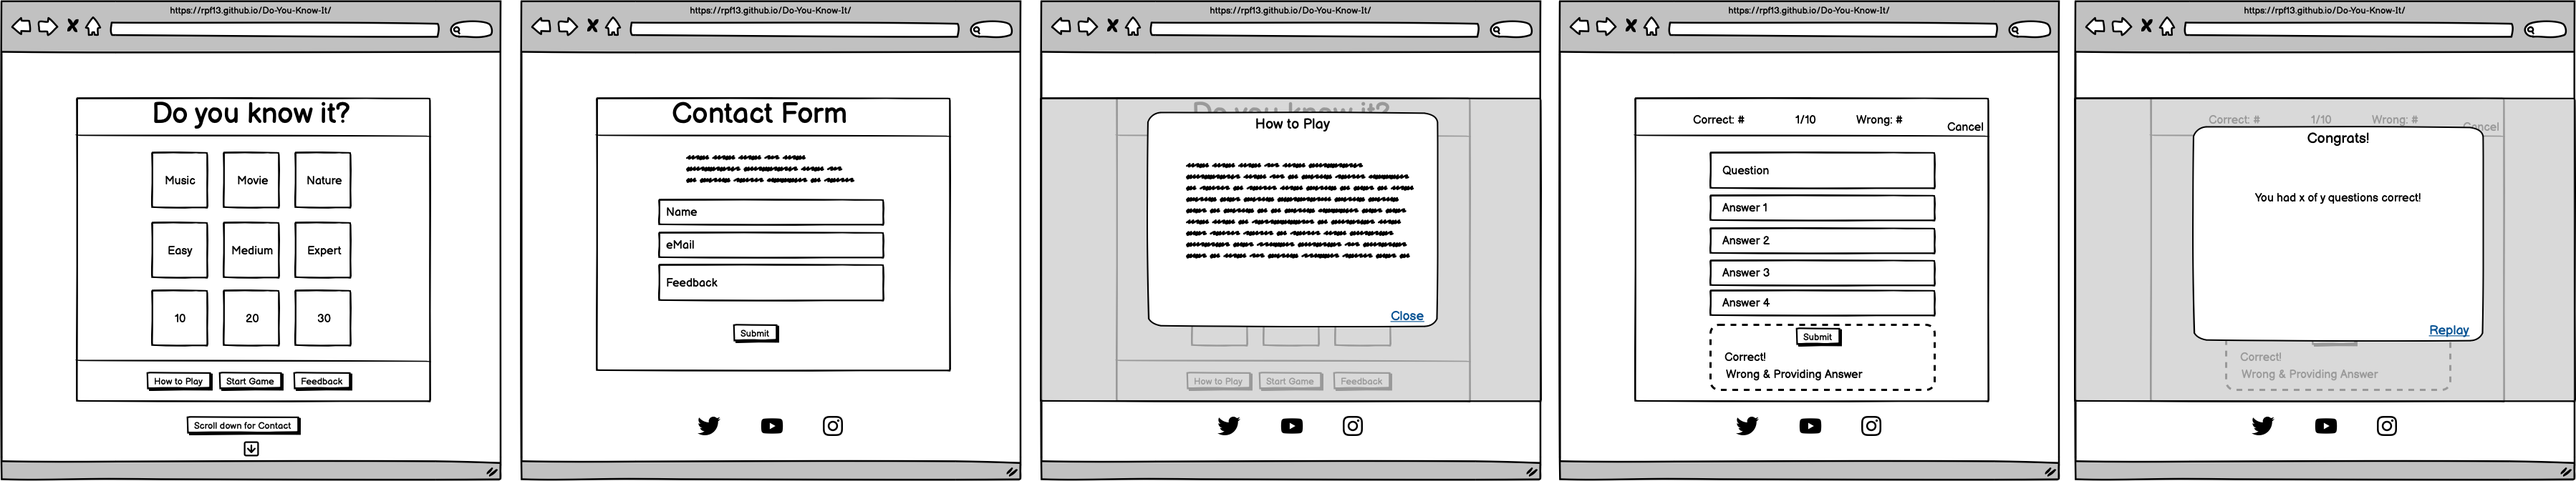
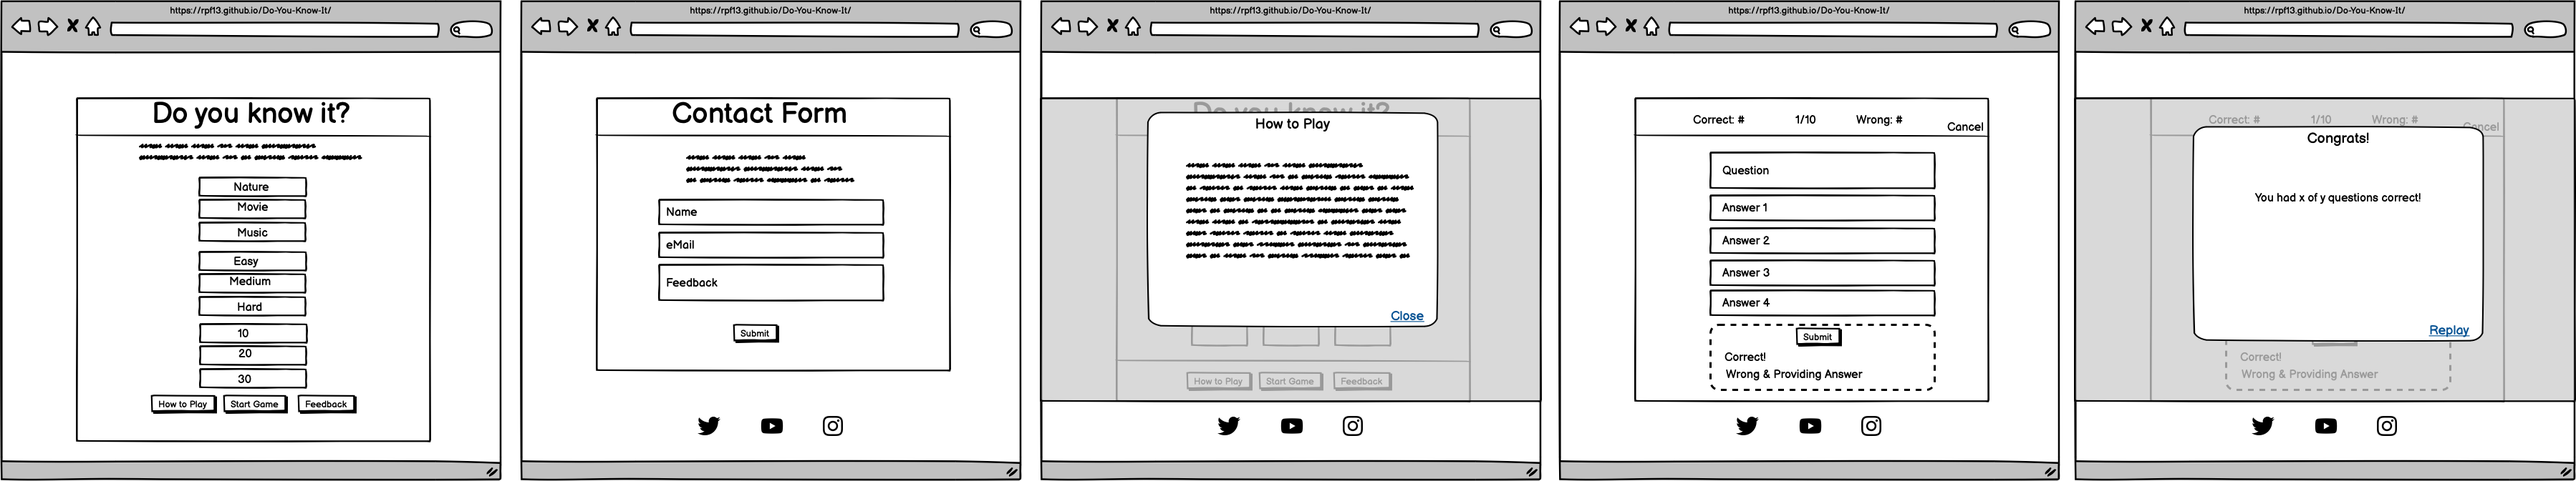
docs: Readme update after layout change

Changed region(s): [[0.0311, 0.2808, 0.1557, 0.9361]]

diff --git a/README.md b/README.md
@@ -63,9 +63,21 @@ This site has been built with the "mobile first" approach in mind. This results 
     explain your colors, etc.... perhaps use coolors.co? to generate an image palette
 
 ### Typography
-I used [Google Fonts](https://fonts.google.com/) to import "Roboto" as my main font, where as "sans-serif" acts as a backup font.
+I used [Google Fonts](https://fonts.google.com/) to import "Roboto" as my main font, where as "sans-serif" acts as a backup font. For headings and special titles I used the font "Permanent Marker" with a backup of cursive.
+
+<details>
+<summary>Roboto Font</summary>
 
 ![Roboto](docs/images/font_roboto.png)
+
+</details>
+
+<details>
+<summary>Permanent Marker Font</summary>
+
+![Permanent Marker](docs/images/font_permanent_marker.png)
+
+</details>
 
 ### Wireframes
 As a first step of this project, before any code has been written, I have created Wireframes for Mobile and Desktop version. I have used Balsamiq to create them.
@@ -131,6 +143,12 @@ The following arguments describe *why and how* I have choosen to code certain pa
 
 ### Mobile First Approach
     add text
+
+### Challenges during Development
+
+I faced a big challenge during the initial phase, when creating the html/css part of the main site. The initial goal was to build 9 square boxes, wich are inside a container and are evenly aligned using CSS grid. However, My ideas and the current knowledge of css grid, did not seem to be enough, because it did not work the way I have wanted.
+
+I quickly came up with another solution, using Flexbox, which I have already studied quite a lot during my first portfolio project. With this, I did a refactoring of the whole structure and ended up with a beautiful, simple and clean but completely responsive layout. I am happy with the result.
 
 ### Commit messages
 
